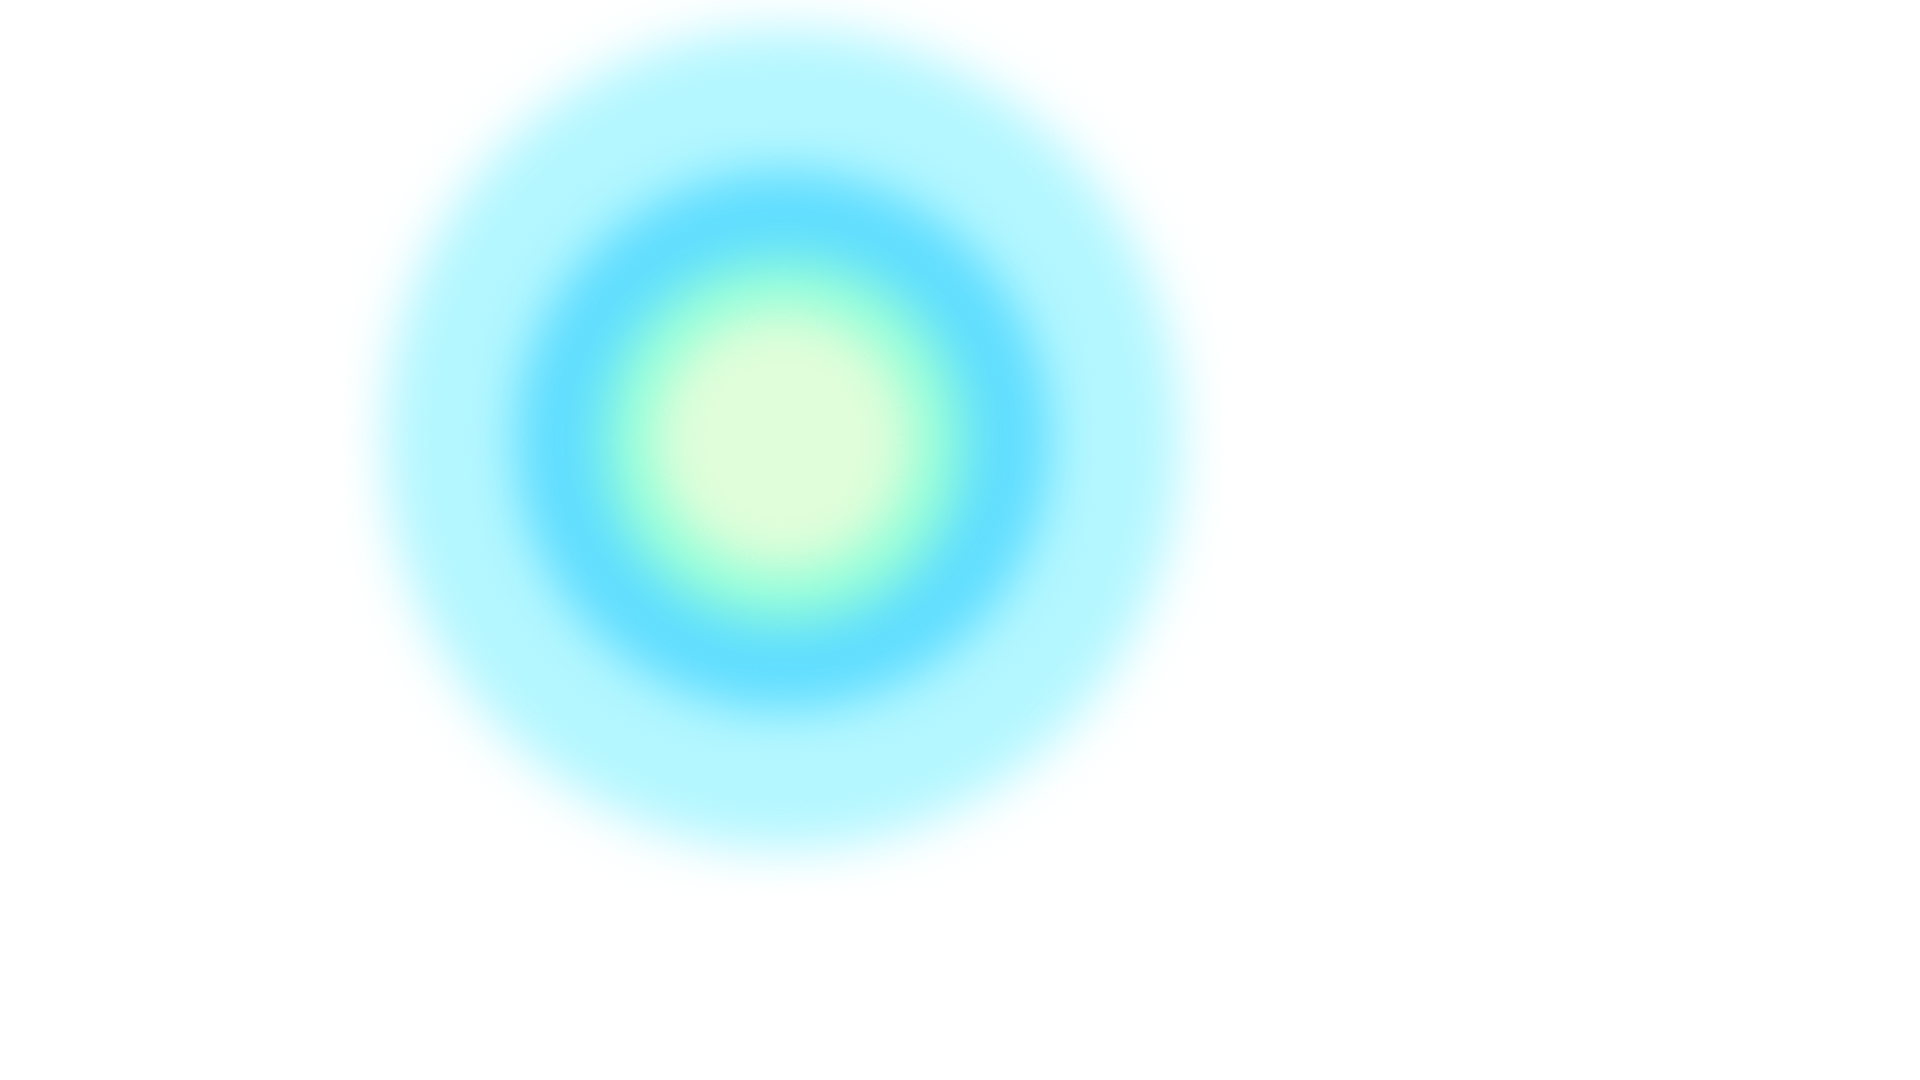
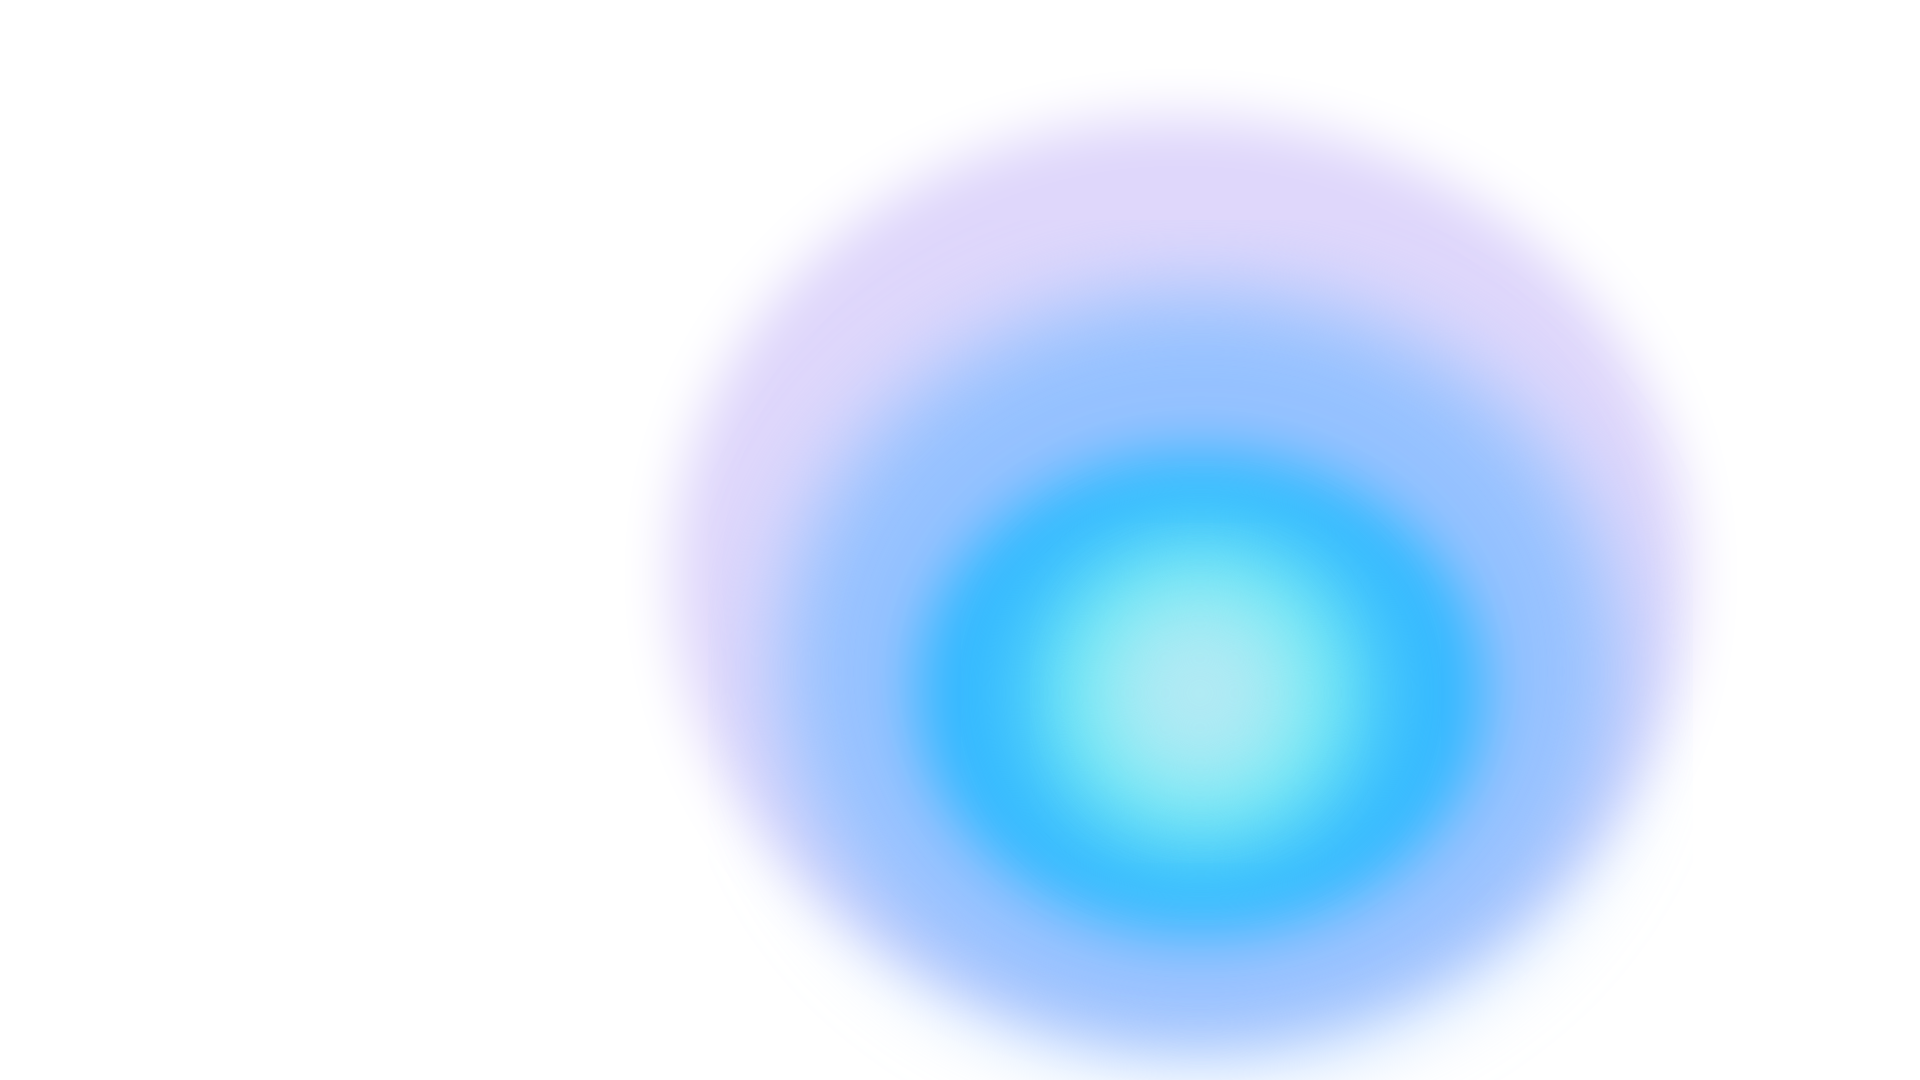
skabelon2

diff --git a/kontakt.html b/kontakt.html
@@ -10,32 +10,68 @@
     <link href="https://fonts.googleapis.com/css2?family=Space+Mono&display=swap" rel="stylesheet">
     <link rel="preconnect" href="https://fonts.googleapis.com">
     <link href="https://fonts.googleapis.com/css2?family=Poppins:wght@200&display=swap" rel="stylesheet">
-    <title>Kontakt</title>
+    <title>Forside</title>
 </head>
 
-<body>
+<body class="body_img4">
 
     <header>
-        <div class="burger_menu">
-            <div class="burger_icon"></div>
-            <div class="burger_icon"></div>
-            <div class="burger_icon"></div>
-        </div>
 
-        <ul class="nav">
+
+        <ul class="nav_header">
             <li class="logo">
-                <a href="index.html"><img src="" alt=""></a>
+                <a href="index.html"><img src="img/logo.webp" alt="logo"></a>
             </li>
             <li><a href="index.html">Forside</a></li>
             <li><a href="mig.html">Om mig</a></li>
             <li><a href="portfolie.html">Portfolie</a></li>
-            <li><a href="kontakt.html">Kontakt</a></li>
+            <li><a href="kontakt.html"><em>Kontakt</em></a></li>
         </ul>
     </header>
 
     <main>
+        <h1>Kontakt oplysninger</h1>
 
+        <div class="kontakt_grid">
+            <div class="mail_icon">
+                <img src="img/mail_icon.webp" alt="mail">
+            </div>
+            <p>sophiaserve11@gmail.com <br>
+                sose0001stud.kea.dk</p>
+        </div>
+
+        <div class="kontakt_grid">
+            <div class="telefon_icon">
+                <img src="img/telefon_icon.webp" alt="telefonnummer">
+            </div>
+
+            <p>+45 53345558</p>
+
+        </div>
+
+        <img src="" alt="">
 
 
     </main>
+
+    <footer class="footer_grid">
+
+
+        <div class="footer_grid_2">
+            <p>Copyright@sophiaserve.dk</p>
+        </div>
+
+        <div class="footer_grid_3">
+            <div>
+                <img src="img/linkin.webp" alt="linkin">
+            </div>
+            <div>
+                <img src="img/Facebook_icon.webp" alt="facebook">
+            </div>
+            <div>
+                <img src="img/instagram_icon.webp" alt="instagram">
+            </div>
+        </div>
+
+    </footer>
 </body>

diff --git a/style.css b/style.css
@@ -20,14 +20,14 @@ body {
 }
 
 h1 {
-  font-size: 40px;
+  font-size: 30px;
   font-family: "Poppins", sans-serif;
   font-weight: bold;
   margin-top: 100px;
 }
 
 h2 {
-  font-size: 27px;
+  font-size: 20px;
   font-family: "Poppins", sans-serif;
   font-weight: bold;
   margin-top: 40px;
@@ -45,7 +45,7 @@ h2 {
     justify-content: space-between;
     list-style: none;
     text-transform: uppercase;
-    font-size: 120%;
+    font-size: 20px;
     color: #223cfa;
   }
 }
@@ -74,13 +74,67 @@ h2 {
 /************* portfolie ****************/
 
 .body_img3 {
-  background-image: url(img/baggrund2.webp);
+  background-image: url(img/baggrund3.webp);
+}
+
+/************* Kontakt ****************/
+
+.body_img4 {
+  background-image: url(img/baggrund4.webp);
+}
+.kontakt_grid {
+  display: grid;
+  grid-template-columns: 1fr 1fr;
+}
+.mail_icon {
+  height: 84px;
+  width: 83px;
+}
+.telefon_icon {
+  height: 80px;
+  width: 65px;
+  padding-left: 7px;
+}
+p {
+  font-size: 14px;
+  font-family: "Poppins", sans-serif;
+  font-weight: bold;
+  margin-top: 40px;
 }
 
 /************* footer ****************/
 
 .footer_grid {
-  margin-top: 250px;
+  display: grid;
+  grid-template-columns: repeat(2, 1fr);
+  gap: 3px;
+  padding-top: 20px;
+}
+
+.footer_grid_2 {
+  grid-row: 1;
+  grid-column: 1/2;
+}
+
+.footer_grid_3 {
+  display: flex;
+  justify-content: space-around;
+  grid-row: 1;
+  grid-column: 2/3;
+}
+
+.footer_grid p {
+  font-size: 11px;
+}
+
+.footer_grid {
+  padding-top: 20px;
   border-top: 1px solid #000;
-  padding-top: 10px;
+  margin-top: 150px;
+  margin-bottom: 30px;
+}
+
+.footer_grid img {
+  max-width: 70px;
+  height: 50px;
 }

diff --git a/mig.html b/mig.html
@@ -25,7 +25,7 @@
                     <a href="index.html"><img src="img/logo.webp" alt="logo"></a>
                 </li>
                 <li><a href="index.html">Forside</a></li>
-                <li><a href="mig.html">Om mig</a></li>
+                <li><a href="mig.html"><em>Om mig</em></a></li>
                 <li><a href="portfolie.html">Portfolie</a></li>
                 <li><a href="kontakt.html">Kontakt</a></li>
             </ul>
@@ -61,13 +61,22 @@
 
         <footer class="footer_grid">
 
-            <p></p>
 
-            <img src="" alt="">
-            <img src="" alt="">
-            <img src="" alt="">
+            <div class="footer_grid_2">
+                <p>Copyright@sophiaserve.dk</p>
+            </div>
 
-
+            <div class="footer_grid_3">
+                <div>
+                    <img src="img/linkin.webp" alt="linkin">
+                </div>
+                <div>
+                    <img src="img/Facebook_icon.webp" alt="facebook">
+                </div>
+                <div>
+                    <img src="img/instagram_icon.webp" alt="instagram">
+                </div>
+            </div>
 
         </footer>
 

diff --git a/portfolie.html b/portfolie.html
@@ -26,7 +26,7 @@
                 </li>
                 <li><a href="index.html">Forside</a></li>
                 <li><a href="mig.html">Om mig</a></li>
-                <li><a href="portfolie.html">Portfolie</a></li>
+                <li><a href="portfolie.html"><em>Portfolie</em></a></li>
                 <li><a href="kontakt.html">Kontakt</a></li>
             </ul>
         </header>
@@ -47,13 +47,22 @@
 
         <footer class="footer_grid">
 
-            <p></p>
 
-            <img src="" alt="">
-            <img src="" alt="">
-            <img src="" alt="">
+            <div class="footer_grid_2">
+                <p>Copyright@sophiaserve.dk</p>
+            </div>
 
-
+            <div class="footer_grid_3">
+                <div>
+                    <img src="img/linkin.webp" alt="linkin">
+                </div>
+                <div>
+                    <img src="img/Facebook_icon.webp" alt="facebook">
+                </div>
+                <div>
+                    <img src="img/instagram_icon.webp" alt="instagram">
+                </div>
+            </div>
 
         </footer>
 

diff --git a/index.html b/index.html
@@ -22,7 +22,7 @@
             <li class="logo">
                 <a href="index.html"><img src="img/logo.webp" alt="logo"></a>
             </li>
-            <li><a href="index.html">Forside</a></li>
+            <li><a href="index.html"><em>Forside</em></a></li>
             <li><a href="mig.html">Om mig</a></li>
             <li><a href="portfolie.html">Portfolie</a></li>
             <li><a href="kontakt.html">Kontakt</a></li>
@@ -44,12 +44,22 @@
 
     <footer class="footer_grid">
 
-        <p></p>
 
-        <img src="" alt="">
-        <img src="" alt="">
-        <img src="" alt="">
+        <div class="footer_grid_2">
+            <p>Copyright@sophiaserve.dk</p>
+        </div>
 
+        <div class="footer_grid_3">
+            <div>
+                <img src="img/linkin.webp" alt="linkin">
+            </div>
+            <div>
+                <img src="img/Facebook_icon.webp" alt="facebook">
+            </div>
+            <div>
+                <img src="img/instagram_icon.webp" alt="instagram">
+            </div>
+        </div>
 
     </footer>
 </body>
